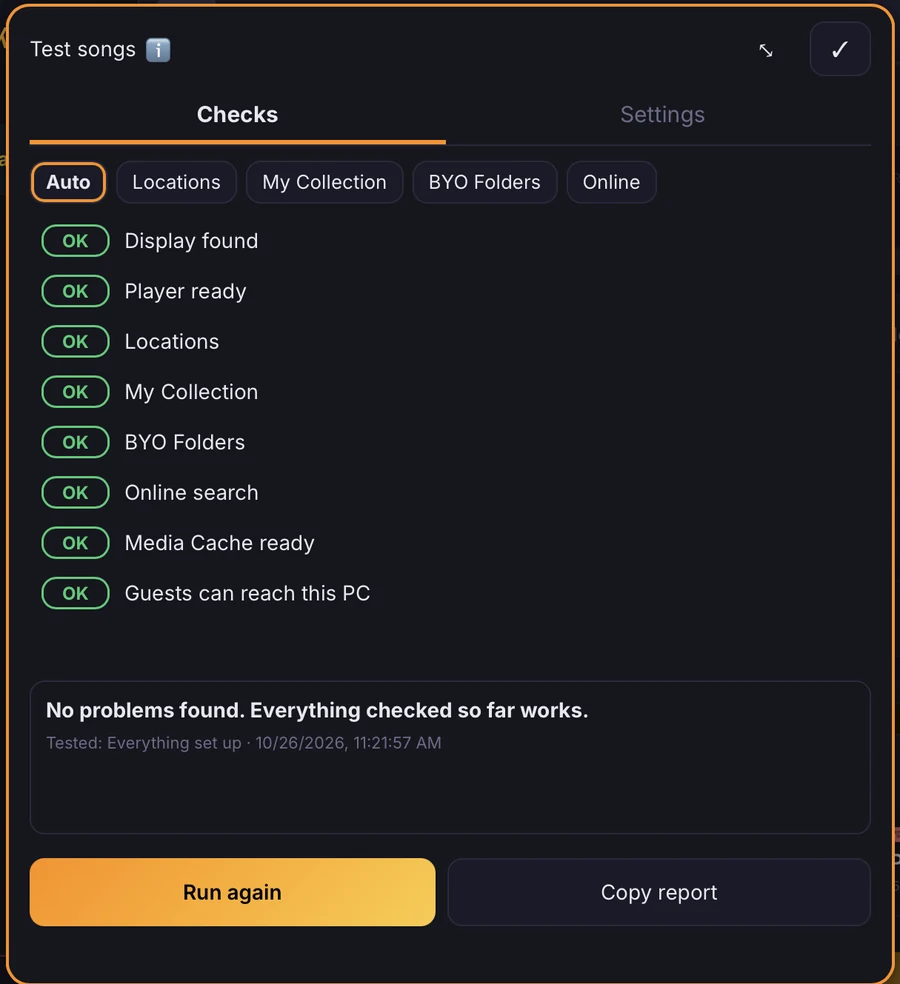
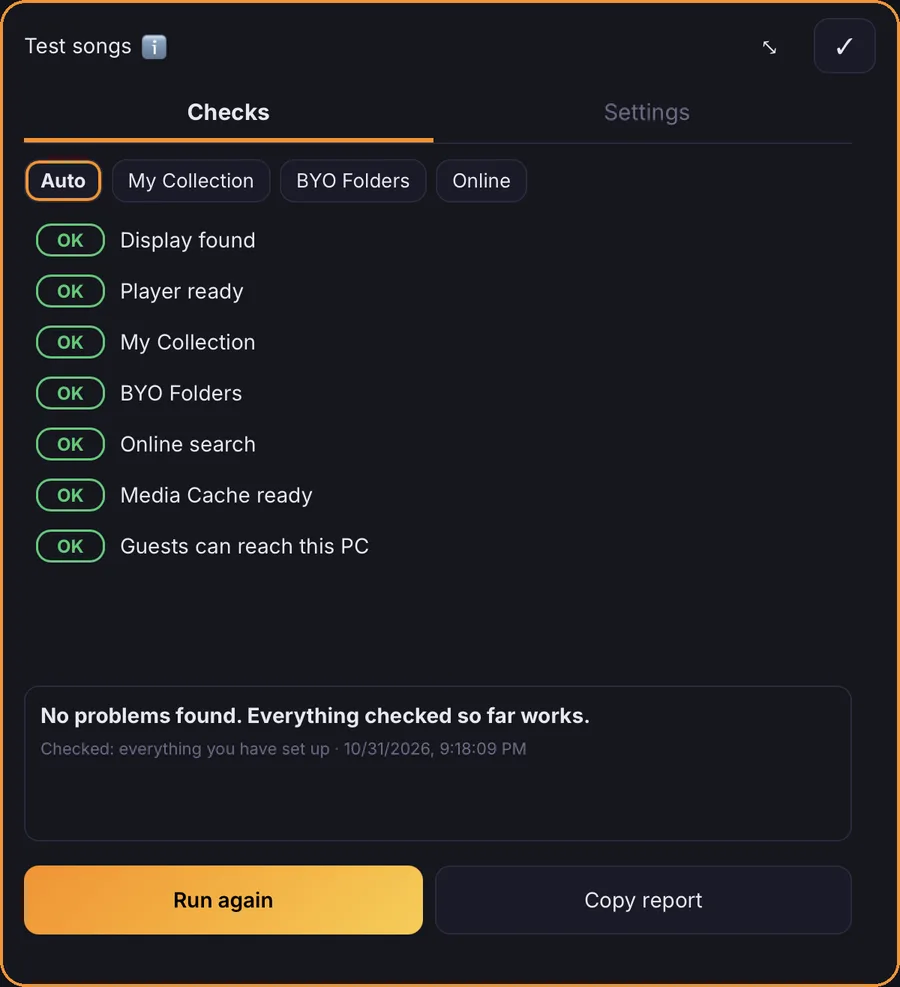
Update hero screenshots and fix stale tile names
Replace the screenshots on the home and features pages with current ones, cropped to the app without the browser bars. The new set: the host dashboard (the home-page hero), the guest “You’re singing” screen, the Get Ready checklist, and a guest’s My Songs queue with a karaoke clip playing in the preview window. Add a new Test songs results screenshot to the features page.

Update the image sizes and alt text for the new shots. The guest alt text no longer mentions a Tip button, which the new screen does not show.

In check.html, rename the Get Ready tiles to match the app: “Song folders” is now “My Collection” and “My own media” is now “BYO Folders”.

Claude-Session: https://claude.ai/code/session_01HnEckNtUaNkFFQ5UtnkAkX

diff --git a/features.html b/features.html
@@ -54,7 +54,7 @@
 <h2>From one singer to a whole venue</h2>
 <p class="lead narrow">Jukoke is one program at every size. A duet at home and a KJ with a full room use the same app; the plans simply lift the limits and add the tools a crowd needs.</p>
 <div class="cards three">
-<article class="card"><h3>Start small, for free</h3><p>Free covers you and one guest. Add Lite for practice tools and a party of friends.</p></article>
+<article class="card"><h3>Start small, for free</h3><p>Free covers you and one guest. Add Free+ for practice tools, or Lite for a party of friends.</p></article>
 <article class="card"><h3>Grow with the crowd</h3><p>Pro removes the guest cap and adds crowd control, stage tools, announcements and the full party look. Buy it by the 6-hour session when you need it &mdash; no subscription to cancel.</p></article>
 <article class="card"><h3>Prepare once, reuse everywhere</h3><p>Keep a prep for each gig, clone an old one, tag venues, and bring the whole night back in one step.</p></article>
 <article class="card"><h3>Several rooms? Several Jukokes</h3><p>Run one Jukoke in each room. Each has its own queue and guests, and the rooms can share the same song libraries over your network.</p></article>
@@ -120,19 +120,18 @@
 <figcaption class="small muted">The host&rsquo;s night, start to finish</figcaption>
 </figure>
 <div class="shots two">
-<figure class="shot"><img src="img/shots/host-get-ready.webp" width="900" height="840" alt="The Get Ready checklist on the host dashboard, with a status card, checks for songs, playback and guest Wi-Fi, and the Test songs and Screen and sound buttons" loading="lazy"><figcaption>Get Ready checks your screen, songs, Wi-Fi and server, and shows what is left.</figcaption></figure>
-<figure class="shot"><img src="img/shots/host-test-songs.webp" width="900" height="984" alt="The Test songs panel with every check showing OK: display, player, locations, collection, BYO folders, online search, media cache and guest access" loading="lazy"><figcaption>Test songs tries a sample of your songs and says which step, if any, would stop them playing.</figcaption></figure>
+<figure class="shot"><img src="img/shots/host-get-ready.webp" width="900" height="819" alt="The Get Ready checklist on the host dashboard, with green ticks for My Collection, BYO Folders, online search, media cache and the Jukoke server, and buttons for Test songs, Screen &amp; sound and Refresh status" loading="lazy"><figcaption>Get Ready checks your screen, songs and Wi-Fi, and shows what is left.</figcaption></figure>
+<figure class="shot"><img src="img/shots/host-test-songs.webp" width="900" height="987" alt="The Test songs results: OK for the display, player, My Collection, BYO Folders, online search, media cache and guest access, with Run again and Copy report buttons" loading="lazy"><figcaption>Test songs tries the whole chain for you and says what, if anything, is wrong.</figcaption></figure>
 <figure class="shot"><img src="img/shots/host-party-prep.webp" width="900" height="1016" alt="The Party Prep list with one prep, Smith Wedding, and buttons to open, clone or export it" loading="lazy"><figcaption>Prepare the night ahead of time, then bring it to life at the party.</figcaption></figure>
-<figure class="shot"><img src="img/shots/host-dashboard-singing.webp" width="900" height="1012" alt="The host dashboard while a guest sings, with pause, skip, volume and key controls, and buttons below for Add Song, Break &amp; Filler, Get Ready and QR Code" loading="lazy"><figcaption>Run the party from the dashboard while a guest sings.</figcaption></figure>
+<figure class="shot"><img src="img/shots/host-dashboard-singing.webp" width="900" height="1106" alt="The host dashboard while a guest sings, with pause, skip, volume and key controls, and buttons below for Add Song, Break &amp; Filler, Get Ready and QR Code" loading="lazy"><figcaption>Run the party from the dashboard while a guest sings.</figcaption></figure>
 <figure class="shot"><img src="img/shots/host-approve-guest.webp" width="900" height="1016" alt="The Guests screen with a pending guest and Approve, Come See Me and Reject buttons" loading="lazy"><figcaption>Step in when you need to: approve, check in with, or turn away a guest.</figcaption></figure>
-<figure class="shot"><img src="img/shots/host-eq.webp" width="900" height="894" alt="The equalizer on the host dashboard: a preset box, ten sliders from 30 Hz to 15 kHz, Revert and Save buttons, and a Manage button for songs with their own curve" loading="lazy"><figcaption>Shape the backing track with an equalizer, and give any song its own curve.</figcaption></figure>
 </div>
 <h3>For your guests</h3>
 <figure class="diagram">
 <div class="diagram-scroll">
 <svg viewBox="0 0 960 200" role="img" aria-labelledby="gd-t gd-d" xmlns="http://www.w3.org/2000/svg">
 <title id="gd-t">A guest&rsquo;s night</title>
-<desc id="gd-d">Scan, join with a stage name and PIN, add songs or ask the MC, wait for a fair turn, sing, and come back another night.</desc>
+<desc id="gd-d">Scan, join with a nickname and PIN, add songs or ask the MC, wait for a fair turn, sing, and come back another night.</desc>
 <defs><marker id="mgd" viewBox="0 0 10 10" refX="9" refY="5" markerWidth="7" markerHeight="7" orient="auto-start-reverse"><path d="M0 0L10 5L0 10z" class="dg-arrow"/></marker></defs>
 <text class="dg-label" x="14" y="26">A GUEST</text>
 <rect class="dg-box" x="14" y="48" width="136" height="110" rx="12"/>
@@ -144,7 +143,7 @@
 <path class="dg-line" d="M150 103H170" marker-end="url(#mgd)"/>
 <rect class="dg-box" x="172" y="48" width="136" height="110" rx="12"/>
 <text class="dg-name" x="240" y="76" text-anchor="middle">Join</text>
-<text class="dg-sub" x="240" y="96" text-anchor="middle">Stage name and</text>
+<text class="dg-sub" x="240" y="96" text-anchor="middle">Nickname and</text>
 <text class="dg-sub" x="240" y="113" text-anchor="middle">PIN. No app,</text>
 <text class="dg-sub" x="240" y="130" text-anchor="middle">no account</text>
 <text class="dg-sub" x="240" y="182" text-anchor="middle">2</text>
@@ -181,10 +180,10 @@
 <figcaption class="small muted">A guest&rsquo;s night</figcaption>
 </figure>
 <div class="shots two">
-<figure class="shot"><img src="img/shots/guest-joined.webp" width="900" height="1016" alt="The welcome screen a guest sees after joining, with their emoji and stage name" loading="lazy"><figcaption>Pick a stage name and PIN, and you are in.</figcaption></figure>
-<figure class="shot"><img src="img/shots/guest-search-preview.webp" width="900" height="1016" alt="A guest searching online with a short video preview playing in the corner" loading="lazy"><figcaption>Search, and preview a short clip before you add a song.</figcaption></figure>
+<figure class="shot"><img src="img/shots/guest-joined.webp" width="900" height="1016" alt="The welcome screen a guest sees after joining, with their emoji and nickname" loading="lazy"><figcaption>Pick a nickname and PIN, and you are in.</figcaption></figure>
+<figure class="shot"><img src="img/shots/guest-search-preview.webp" width="900" height="1524" alt="A guest's My Songs queue with a karaoke clip from the host's own collection playing in a small preview window" loading="lazy"><figcaption>Preview a song before you sing it, from your own collection or online.</figcaption></figure>
 <figure class="shot"><img src="img/shots/guest-your-turn.webp" width="900" height="1016" alt="The You are Up screen on a guest's device" loading="lazy"><figcaption>Nobody has to ask whose turn it is.</figcaption></figure>
-<figure class="shot"><img src="img/shots/guest-singing.webp" width="900" height="1500" alt="The singer controls on a guest's phone: pause, restart, skip, volume, seek and key, with a Tip button in the bottom bar" loading="lazy"><figcaption>Then sing, with your own controls.</figcaption></figure>
+<figure class="shot"><img src="img/shots/guest-singing.webp" width="900" height="859" alt="The singer controls on a guest's device: pause, restart, skip, volume, seek and key, with My Queue and Add Song below" loading="lazy"><figcaption>Then sing, with your own controls.</figcaption></figure>
 </div>
 </section>
 
@@ -222,7 +221,7 @@
 
 <rect class="dg-box hot" x="336" y="80" width="108" height="72" rx="12"/>
 <text class="dg-name" x="390" y="108" text-anchor="middle">NICE-Join</text>
-<text class="dg-sub" x="390" y="128" text-anchor="middle">Scan, stage name</text>
+<text class="dg-sub" x="390" y="128" text-anchor="middle">Scan, nickname</text>
 <path class="dg-line" d="M444 116H462" marker-end="url(#ar2)"/>
 <rect class="dg-box hot" x="464" y="80" width="108" height="72" rx="12"/>
 <text class="dg-name" x="518" y="108" text-anchor="middle">NICE-Add</text>
@@ -260,16 +259,16 @@
 </figure>
 
 <div class="cards three">
-<article class="card"><h3><span class="tag">NICE-Start</span> Up and running, step by step</h3><p>A guided checklist for your first time, and any time something stops working. Tell Jukoke what you have to sing with: song files, your own media, or nothing yet. It checks your screen, songs, online search and Wi-Fi as they are right now, keeps itself up to date while you work, shows what is left, and takes you straight to each fix. Skip anything you do not plan to use. It can try a sample of songs from your catalog, the Dashboard button turns green, yellow or red, and a Screen &amp; sound clip lets you check the TV and each speaker. Sound and TV setup come with plain guidance. Online search needs a separate helper program that you choose to set up; it is provided as is, without warranty or support. On every plan.</p></article>
+<article class="card"><h3><span class="tag">NICE-Start</span> Up and running, step by step</h3><p>A guided checklist for your first time, and any time something stops working. Tell Jukoke what you have to sing with: song files, your own media, or nothing yet. It checks your screen, songs, online search and Wi-Fi as they are right now, shows what is left, and takes you straight to each fix. Skip anything you do not plan to use. Sound and TV setup come with plain guidance. Online search needs a separate helper program that you choose to set up; it is provided as is, without warranty or support. On every plan.</p></article>
 <article class="card"><h3><span class="tag">NICE-Prep</span> Ready before the party</h3><p>Build a plan for the night ahead of time, with no session running: party details, the look, filler music, guest permissions, your own songs, and the guests you expect with songs picked for each. On the night it all goes into place together.</p></article>
-<article class="card"><h3><span class="tag">NICE-SIP</span> Your song catalog</h3><p>Scan your folders, or import a list exported from your old karaoke software. Review it, fix any title or artist, and approve. Guests then search the songs you actually have, by title or artist, and find something that will play. Scan and import are on every plan; editing a catalog entry later is part of Lite and Pro.</p></article>
+<article class="card"><h3><span class="tag">NICE-SIP</span> Your song catalog</h3><p>Scan your folders, or import a list exported from your old karaoke software. Review it, fix any title or artist, and approve. Guests then search the songs you actually have, by title or artist, and find something that will play. Scan and import are on every plan; editing a catalog entry later is part of Free+ and up.</p></article>
 <article class="card"><h3><span class="tag">NICE-Vibe</span> Your party&rsquo;s look</h3><p>Give the party a title and colors on guests&rsquo; phones and, on Pro, on the TV too. Pro also adds your own background pictures. Without one, the background is a wave pattern in your party colors. It feels like your party, not a generic app.</p></article>
-<article class="card"><h3><span class="tag">NICE-Join</span> Getting in, and coming back</h3><p>Guests scan a QR code, pick a stage name and a 4-digit PIN, and they&rsquo;re in. The last four digits of a phone number make an easy PIN to remember, but any four digits work, and nothing checks them. No account, no app, and no name or email asked for. With <strong>Follow-Me</strong>, a returning guest is recognized: their history, favorites and keys come back, at this party or the next.</p></article>
-<article class="card"><h3><span class="tag">NICE-Add</span> Choosing songs</h3><p>Add songs from your own song folders, from a catalog of what you have, from guests&rsquo; own files in the shared folders you open to them, from online search, or by pasting a link. Lite and Pro add saved playlists, including importing a whole YouTube playlist. Online search, Paste URL and playlist import need an online song source that you choose, set up and opt in to; Jukoke doesn&rsquo;t include one. One shared queue, however a song arrives.</p></article>
+<article class="card"><h3><span class="tag">NICE-Join</span> Getting in, and coming back</h3><p>Guests scan a QR code, pick a nickname and a 4-digit PIN, and they&rsquo;re in. The last four digits of a phone number make an easy PIN to remember, but any four digits work, and nothing checks them. No account, no app, and no name or email asked for. With <strong>Follow-Me</strong>, a returning guest is recognized: their history, favorites and keys come back, at this party or the next.</p></article>
+<article class="card"><h3><span class="tag">NICE-Add</span> Choosing songs</h3><p>Add songs from your own song folders, from a catalog of what you have, from guests&rsquo; own files in the shared folders you open to them, from online search, or by pasting a link. Free+ and up add saved playlists, including importing a whole YouTube playlist. Online search, Paste URL and playlist import need an online song source that you choose, set up and opt in to; Jukoke doesn&rsquo;t include one. One shared queue, however a song arrives.</p></article>
 <article class="card"><h3><span class="tag">NICE-Q</span> Fair turns</h3><p>A rotation that gives every singer a turn. The host can reorder and manage what&rsquo;s queued, and the player always knows who is next.</p></article>
 <article class="card"><h3><span class="tag">NICE-Play</span> On stage</h3><p>Singers control their own song from their phones, and guests can see when they are up. The host can limit which controls guests get.</p></article>
 <article class="card"><h3><span class="tag">NICE-Try</span> Practice a tricky bit</h3><p>Loop a section, slow the tempo, and try it again. Handy for the song everyone loves and nobody has quite learned.</p></article>
-<article class="card"><h3><span class="tag">NICE-GAME</span> Guest admin essentials</h3><p>Approve, restrict or block guests when a crowd needs managing, and look over a long or repeated song before it joins the queue. Rules follow the same guest identity all night. Song review, Strict Admission and the rest are Pro.</p></article>
+<article class="card"><h3><span class="tag">NICE-GAME</span> Guest admin essentials</h3><p>Approve, restrict or block guests when a crowd needs managing, and look over a long or repeated song before it joins the queue. Rules follow the same guest identity all night. Song review and Strict Admission start at Lite+; the rest is Pro.</p></article>
 </div>
 </section>
 
@@ -290,9 +289,9 @@
 <li>Session history and stats, with a session report on Pro.</li>
 <li>Venue tags, so hosts who play several places can keep them apart.</li>
 <li>Works on any phone with a browser. Guests need nothing installed.</li>
-<li>Stage Wait: pause between songs so the next singer can get to the mic (Pro).</li>
+<li>Stage Hold: pause between songs so the next singer can get to the mic (Pro).</li>
 <li>Ask the MC messages arrive with a badge on your Dashboard and Live Guests, just like join requests. Search them, sort them, and look back at what you have handled.</li>
-<li>Approve some songs first (Pro): hold a song that is shorter or longer than you like, or one a guest has already sung tonight, until you say yes. The guest is told it is waiting, other songs keep playing, and you can approve it or send back a reason. Song lengths show in your queue and in search.</li>
+<li>Approve some songs first (Lite+ and Pro): hold a song that is shorter or longer than you like, or one a guest has already sung tonight, until you say yes. The guest is told it is waiting, other songs keep playing, and you can approve it or send back a reason. Song lengths show in your queue and in search.</li>
 <li>Tip jar (Pro): show your own tip link, QR picture or text to copy, such as a Zelle email, on every guest&rsquo;s phone. Tips go straight to you; Jukoke takes no fee and handles no payment.</li>
 <li>Announce (Pro): send one short message to every guest&rsquo;s phone, and optionally to the TV as a banner across the top that never covers the lyrics. Mark it Info, Good news or Urgent, and choose whether guests must tap OK.</li>
 </ul>
@@ -304,39 +303,37 @@
 <p class="lead narrow">Jukoke is free to run on its own. When you want a bigger party, start a <strong>session</strong> &mdash; a 6-hour block of a paid plan &mdash; using <strong>Play Tokens</strong> from your Wallet. Buy tokens in packs; larger packs cost less per token. See <a href="pricing.html">Pricing</a> for pack prices and session costs.</p>
 <div class="table-wrap">
 <table>
-<thead><tr><th scope="col"></th><th scope="col">Free</th><th scope="col">Lite</th><th scope="col">Pro</th></tr></thead>
+<thead><tr><th scope="col"></th><th scope="col">Free</th><th scope="col">Free+</th><th scope="col">Lite</th><th scope="col">Pro</th></tr></thead>
 <tbody>
-<tr><th scope="row">Guests at once</th><td>1</td><td>8</td><td>Unlimited</td></tr>
-<tr><th scope="row">Songs waiting in the queue</th><td>1</td><td>Unlimited</td><td>Unlimited</td></tr>
-<tr><th scope="row">Guided setup (NICE-Start)</th><td>&#10003;</td><td>&#10003;</td><td>&#10003;</td></tr>
-<tr><th scope="row">Prepare a party (NICE-Prep)</th><td>&#10003;</td><td>&#10003;</td><td>&#10003;</td></tr>
-<tr><th scope="row">Apply a prep to a live party</th><td>&ndash;</td><td>&ndash;</td><td>&#10003;</td></tr>
-<tr><th scope="row">Audio channel, audio track and gain</th><td>&#10003;</td><td>&#10003;</td><td>&#10003;</td></tr>
-<tr><th scope="row">Loop, tempo, vocal removal, playlists, catalog editing</th><td>&ndash;</td><td>&#10003;</td><td>&#10003;</td></tr>
-<tr><th scope="row">Equalizer (presets, sliders, a curve for each song)</th><td>&ndash;</td><td>&#10003;</td><td>&#10003;</td></tr>
-<tr><th scope="row">Your own saved EQ presets</th><td>&ndash;</td><td>&ndash;</td><td>Up to 5</td></tr>
-<tr><th scope="row">Catalog scan and import (NICE-SIP)</th><td>&#10003;</td><td>&#10003;</td><td>&#10003;</td></tr>
-<tr><th scope="row">Online search and Paste URL (you set up the source and opt in)</th><td>&#10003;</td><td>&#10003;</td><td>&#10003;</td></tr>
-<tr><th scope="row">Guests browse your shared folders</th><td>&#10003;</td><td>&#10003;</td><td>&#10003;</td></tr>
-<tr><th scope="row">Guest video uploads</th><td>1 per guest, per party</td><td>Unlimited</td><td>Unlimited</td></tr>
-<tr><th scope="row">Song library folders</th><td>1</td><td>3</td><td>Unlimited</td></tr>
-<tr><th scope="row">Break &amp; filler music</th><td>&ndash;</td><td>&#10003;</td><td>&#10003; plus rotating playlists</td></tr>
-<tr><th scope="row">Party look (title, colors)</th><td>&ndash;</td><td>Phones</td><td>Phones and TV</td></tr>
-<tr><th scope="row">Your own background pictures</th><td>&ndash;</td><td>&ndash;</td><td>&#10003;</td></tr>
-<tr><th scope="row">Stats</th><td>&ndash;</td><td>&#10003;</td><td>&#10003; plus session report</td></tr>
-<tr><th scope="row">Join by Wi-Fi + Jukoke QR codes</th><td>&#10003;</td><td>&#10003;</td><td>&#10003;</td></tr>
-<tr><th scope="row">Ask the MC (guest messages)</th><td>&ndash;</td><td>&#10003;</td><td>&#10003;</td></tr>
-<tr><th scope="row">Announce to every guest</th><td>&ndash;</td><td>&ndash;</td><td>&#10003;</td></tr>
-<tr><th scope="row">Turn heads-up (Next Up, You are Up) on phones and the TV</th><td>&#10003;</td><td>&#10003;</td><td>&#10003; plus your own timing</td></tr>
-<tr><th scope="row">Stage Wait</th><td>&ndash;</td><td>&ndash;</td><td>&#10003;</td></tr>
-<tr><th scope="row">Approve some songs first (long, short, repeats)</th><td>&ndash;</td><td>&ndash;</td><td>&#10003;</td></tr>
-<tr><th scope="row">Strict Admission (approve each guest)</th><td>&ndash;</td><td>&ndash;</td><td>&#10003;</td></tr>
-<tr><th scope="row">Tip jar on guests&rsquo; phones</th><td>&ndash;</td><td>&ndash;</td><td>&#10003;</td></tr>
-<tr><th scope="row">Crowd control (NICE-GAME)</th><td>&ndash;</td><td>&ndash;</td><td>&#10003;</td></tr>
+<tr><th scope="row">Guests at once</th><td>1</td><td>1</td><td>8, or 16 with Lite+</td><td>Unlimited</td></tr>
+<tr><th scope="row">Songs waiting in the queue</th><td>1</td><td>1</td><td>Unlimited</td><td>Unlimited</td></tr>
+<tr><th scope="row">Guided setup (NICE-Start)</th><td>&#10003;</td><td>&#10003;</td><td>&#10003;</td><td>&#10003;</td></tr>
+<tr><th scope="row">Prepare a party (NICE-Prep)</th><td>&#10003;</td><td>&#10003;</td><td>&#10003;</td><td>&#10003;</td></tr>
+<tr><th scope="row">Apply a prep to a live party</th><td>&ndash;</td><td>&ndash;</td><td>&ndash;</td><td>&#10003;</td></tr>
+<tr><th scope="row">Audio channel, audio track and gain</th><td>&#10003;</td><td>&#10003;</td><td>&#10003;</td><td>&#10003;</td></tr>
+<tr><th scope="row">Loop, tempo, vocal removal, playlists, catalog editing</th><td>&ndash;</td><td>&#10003;</td><td>&#10003;</td><td>&#10003;</td></tr>
+<tr><th scope="row">Catalog scan and import (NICE-SIP)</th><td>&#10003;</td><td>&#10003;</td><td>&#10003;</td><td>&#10003;</td></tr>
+<tr><th scope="row">Online search and Paste URL (you set up the source and opt in)</th><td>&#10003;</td><td>&#10003;</td><td>&#10003;</td><td>&#10003;</td></tr>
+<tr><th scope="row">Guests browse your shared folders</th><td>&#10003;</td><td>&#10003;</td><td>&#10003;</td><td>&#10003;</td></tr>
+<tr><th scope="row">Guest video uploads</th><td>1 per guest, per party</td><td>Unlimited</td><td>Unlimited</td><td>Unlimited</td></tr>
+<tr><th scope="row">Song library folders</th><td>1</td><td>1</td><td>3</td><td>Unlimited</td></tr>
+<tr><th scope="row">Break &amp; filler music</th><td>&ndash;</td><td>&ndash;</td><td>&#10003;</td><td>&#10003; plus rotating playlists</td></tr>
+<tr><th scope="row">Party look (title, colors)</th><td>&ndash;</td><td>&ndash;</td><td>Phones</td><td>Phones and TV</td></tr>
+<tr><th scope="row">Your own background pictures</th><td>&ndash;</td><td>&ndash;</td><td>&ndash;</td><td>&#10003;</td></tr>
+<tr><th scope="row">Stats</th><td>&ndash;</td><td>&#10003;</td><td>&#10003;</td><td>&#10003; plus session report</td></tr>
+<tr><th scope="row">Join by Wi-Fi + Jukoke QR codes</th><td>&#10003;</td><td>&#10003;</td><td>&#10003;</td><td>&#10003;</td></tr>
+<tr><th scope="row">Ask the MC (guest messages)</th><td>&ndash;</td><td>&ndash;</td><td>&#10003;</td><td>&#10003;</td></tr>
+<tr><th scope="row">Announce to every guest</th><td>&ndash;</td><td>&ndash;</td><td>&ndash;</td><td>&#10003;</td></tr>
+<tr><th scope="row">Turn heads-up (Next Up, You are Up) on phones and the TV</th><td>&#10003;</td><td>&#10003;</td><td>&#10003;</td><td>&#10003; plus your own timing</td></tr>
+<tr><th scope="row">Stage Hold</th><td>&ndash;</td><td>&ndash;</td><td>&ndash;</td><td>&#10003;</td></tr>
+<tr><th scope="row">Approve some songs first (long, short, repeats)</th><td>&ndash;</td><td>&ndash;</td><td>With Lite+</td><td>&#10003;</td></tr>
+<tr><th scope="row">Strict Admission (approve each guest)</th><td>&ndash;</td><td>&ndash;</td><td>With Lite+</td><td>&#10003;</td></tr>
+<tr><th scope="row">Tip jar on guests&rsquo; phones</th><td>&ndash;</td><td>&ndash;</td><td>&ndash;</td><td>&#10003;</td></tr>
+<tr><th scope="row">Crowd control (NICE-GAME)</th><td>&ndash;</td><td>&ndash;</td><td>&ndash;</td><td>&#10003;</td></tr>
 </tbody>
 </table>
 </div>
-<p class="small muted">Free needs no session. Lite and Pro each last 6 hours, and you can upgrade a running Lite session to Pro for the difference. Settings you make on a higher plan are kept when you step down and come back when you return. Every installation includes a 30-day free trial of the paid plans, and a 30-Day Pro Pass gives unlimited Pro sessions for 30 days. See <a href="pricing.html">Pricing</a>.</p>
+<p class="small muted">Free needs no session. Free+, Lite and Pro each last 6 hours, and you can extend or upgrade a running session. Lite+ is Lite with 16 guests, Song Review and Strict Admission. Settings you make on a higher plan are kept when you step down and come back when you return. Every installation includes a free trial window to try the paid plans.</p>
 <p class="cta"><a class="btn" href="download.html">Download Jukoke</a></p>
 </section>
 

diff --git a/index.html b/index.html
@@ -41,13 +41,13 @@
 <p class="free"><span class="badge">FREE</span> to download and run for yourself. Start a paid session only when you want a bigger party. For Windows 11 and Ubuntu 24.04.</p>
 <ul class="pills"><li>Free to try</li><li>No app for guests</li><li>Prep to final stats</li><li>Solo to full room</li></ul>
 </div>
-<figure class="shot hero-shot" style="max-width:340px;margin:0 auto"><img src="img/shots/host-dashboard-singing.webp" width="900" height="1012" alt="The Jukoke host dashboard while a guest sings: pause, skip, volume, key and the queue, all from a phone or tablet"><figcaption>The host runs the whole night from a phone or tablet.</figcaption></figure>
+<figure class="shot hero-shot" style="max-width:340px;margin:0 auto"><img src="img/shots/host-dashboard-singing.webp" width="900" height="1106" alt="The Jukoke host dashboard while a guest sings: pause, skip, volume, key and the queue, all from a phone or tablet"><figcaption>The host runs the whole night from a phone or tablet.</figcaption></figure>
 </div>
 </section>
 
 <section class="wrap block" id="highlights">
 <div class="cards three">
-<article class="card"><h3>Zero-install guest join</h3><p>Guests scan a code, pick a stage name and a PIN, and they&rsquo;re in. No app, no account.</p><p class="small"><a href="#zero-install">How joining works &rarr;</a></p></article>
+<article class="card"><h3>Zero-install guest join</h3><p>Guests scan a code, pick a nickname and a PIN, and they&rsquo;re in. No app, no account.</p><p class="small"><a href="#zero-install">How joining works &rarr;</a></p></article>
 <article class="card"><h3>A control panel for the KJ</h3><p>Run the queue, step in, approve guests and watch the room from a phone or tablet.</p><p class="small"><a href="features.html#flows">See the host side &rarr;</a></p></article>
 <article class="card"><h3>Fair queue + Ask the MC</h3><p>Everyone gets a turn, and shy guests can message the host privately to get a song queued.</p><p class="small"><a href="#ask-the-mc">How Ask the MC works &rarr;</a></p></article>
 </div>
@@ -58,7 +58,7 @@
 <h2>How a party works</h2>
 <ol class="steps">
 <li><h3>Start Jukoke</h3><p>Open it on the computer plugged into your TV and sound system. The join codes appear on the screen, and on your first time a guided checklist helps you get set up. Want the night perfect? Prepare it the day before.</p></li>
-<li><h3>Guests scan and add songs</h3><p>Everyone joins on their own phone: scan the Wi-Fi code, scan the Jukoke code, pick a stage name and PIN, and search for songs. Nothing to install, no account to make.</p></li>
+<li><h3>Guests scan and add songs</h3><p>Everyone joins on their own phone: scan the Wi-Fi code, scan the Jukoke code, pick a nickname and PIN, and search for songs. Nothing to install, no account to make.</p></li>
 <li><h3>Everyone gets a turn</h3><p>The queue rotates fairly, so one enthusiastic singer can&rsquo;t hog the night. You can reorder, skip or step in whenever you need to.</p></li>
 </ol>
 </div>
@@ -114,7 +114,7 @@
 <path class="dg-line" d="M188 319H212" marker-end="url(#mov)"/>
 <rect class="dg-box" x="214" y="276" width="160" height="86" rx="12"/>
 <text class="dg-name" x="294" y="301" text-anchor="middle">Join</text>
-<text class="dg-sub" x="294" y="321" text-anchor="middle">Stage name and PIN.</text>
+<text class="dg-sub" x="294" y="321" text-anchor="middle">Nickname and PIN.</text>
 <text class="dg-sub" x="294" y="338" text-anchor="middle">No account</text>
 <path class="dg-line" d="M374 319H398" marker-end="url(#mov)"/>
 <rect class="dg-box hot" x="400" y="276" width="160" height="86" rx="12"/>
@@ -136,8 +136,8 @@
 <figcaption class="small muted">One workflow for the host and the guests</figcaption>
 </figure>
 <div class="shots two">
-<figure class="shot"><img src="img/shots/host-dashboard-singing.webp" width="900" height="1012" alt="The host dashboard on a tablet while a guest sings, with Add Song, Break &amp; Filler, Get Ready and QR Code buttons below" loading="lazy"><figcaption>Run the night from your phone or tablet.</figcaption></figure>
-<figure class="shot"><img src="img/shots/guest-singing.webp" width="900" height="1500" alt="The singer controls on a guest's phone, with a Tip button in the bottom bar" loading="lazy"><figcaption>Guests sing with their own controls.</figcaption></figure>
+<figure class="shot"><img src="img/shots/host-dashboard-singing.webp" width="900" height="1106" alt="The host dashboard on a tablet while a guest sings, with Add Song, Break &amp; Filler, Get Ready and QR Code buttons below" loading="lazy"><figcaption>Run the night from your phone or tablet.</figcaption></figure>
+<figure class="shot"><img src="img/shots/guest-singing.webp" width="900" height="859" alt="The singer controls on a guest's device, with My Queue and Add Song below" loading="lazy"><figcaption>Guests sing with their own controls.</figcaption></figure>
 </div>
 <p class="small"><a href="features.html#flows">See each side step by step &rarr;</a></p>
 </section>
@@ -148,8 +148,9 @@
 <p class="lead narrow">You don&rsquo;t need one tool for the living room and another for the venue. The same app and the same guest experience scale up through Jukoke&rsquo;s plans &mdash; you pay for more room only on the nights you need it.</p>
 <ol class="ladder">
 <li><span class="size">Free</span><h3>A duet</h3><p>You as host plus one guest. Everything you need to try Jukoke at no cost, with no session to start.</p></li>
-<li><span class="size">Lite</span><h3>Home parties</h3><p>Up to 8 guests at once, plus loop, tempo and playlists. Guests add their own songs, and Ask the MC helps the shy ones.</p></li>
-<li><span class="size">Pro</span><h3>Events and venues</h3><p>Unlimited guests, crowd control, Stage Wait, a tip jar on guests&rsquo; phones and the full party look on the TV. Built for a KJ running a full room.</p></li>
+<li><span class="size">Free+</span><h3>Practice mode</h3><p>The same two-person setup, plus loop, tempo, playlists and stats to work on the tricky bits.</p></li>
+<li><span class="size">Lite</span><h3>Home parties</h3><p>Up to 8 guests at once, or 16 with Lite+. Guests add their own songs, and Ask the MC helps the shy ones.</p></li>
+<li><span class="size">Pro</span><h3>Events and venues</h3><p>Unlimited guests, crowd control, Stage Hold, a tip jar on guests&rsquo; phones and the full party look on the TV. Built for a KJ running a full room.</p></li>
 </ol>
 <div class="card" style="margin-top:20px"><h3>Venue with several rooms?</h3><p>Simply run one Jukoke in each room. Each room has its own queue and guests, and your rooms can share the same song libraries over your network.</p></div>
 <p class="small muted">Plenty of hosts run Jukoke on an everyday laptop plugged into a TV. Paid plans are bought by the 6-hour session, so a big night doesn&rsquo;t mean a subscription. <a href="features.html#plans">Compare plans</a></p>
@@ -158,12 +159,12 @@
 
 <section class="wrap block" id="zero-install">
 <h2>Zero install. Low friction.</h2>
-<p class="lead narrow">Every extra step costs you a guest. Most karaoke apps ask everyone to download something and sign up before they can sing a note. Jukoke asks for a camera, a stage name and a four-digit PIN.</p>
+<p class="lead narrow">Every extra step costs you a guest. Most karaoke apps ask everyone to download something and sign up before they can sing a note. Jukoke asks for a camera, a nickname and a four-digit PIN.</p>
 <div class="compare">
 <article class="card old"><h3>The usual way</h3>
 <ul class="ticks x"><li>Find the app and download it</li><li>Make an account, confirm an email</li><li>Type the Wi-Fi password, then work out the party code</li><li>The host reads out requests, or guests crowd the laptop</li></ul></article>
 <article class="card"><h3>The Jukoke way</h3>
-<ul class="ticks"><li><strong>Scan the Wi-Fi code</strong> to get on the network (optional)</li><li><strong>Scan the Jukoke code</strong> to open the party in the phone&rsquo;s browser</li><li><strong>Pick a stage name and a 4-digit PIN</strong> and you&rsquo;re in. No account, name or email. The last four digits of a phone number make an easy PIN, but any four digits work</li><li>Come back next time and Jukoke remembers you</li></ul></article>
+<ul class="ticks"><li><strong>Scan the Wi-Fi code</strong> to get on the network (optional)</li><li><strong>Scan the Jukoke code</strong> to open the party in the phone&rsquo;s browser</li><li><strong>Pick a nickname and a 4-digit PIN</strong> and you&rsquo;re in. No account, name or email. The last four digits of a phone number make an easy PIN, but any four digits work</li><li>Come back next time and Jukoke remembers you</li></ul></article>
 </div>
 <p class="quote">Works with the browser every phone already has &mdash; iPhone, Android, an old tablet someone found in a drawer.</p>
 </section>
@@ -234,7 +235,7 @@
 
 <rect class="dg-box hot" x="336" y="80" width="108" height="72" rx="12"/>
 <text class="dg-name" x="390" y="108" text-anchor="middle">NICE-Join</text>
-<text class="dg-sub" x="390" y="128" text-anchor="middle">Scan, stage name</text>
+<text class="dg-sub" x="390" y="128" text-anchor="middle">Scan, nickname</text>
 <path class="dg-line" d="M444 116H462" marker-end="url(#ar)"/>
 <rect class="dg-box hot" x="464" y="80" width="108" height="72" rx="12"/>
 <text class="dg-name" x="518" y="108" text-anchor="middle">NICE-Add</text>
@@ -275,7 +276,7 @@
 
 <section class="wrap block center">
 <h2>Try it tonight</h2>
-<p class="lead narrow">Download it, plug in your TV, and scan the QR code with your phone. Every installation includes a 30-day free trial of the paid plans.</p>
+<p class="lead narrow">Download it, plug in your TV, and scan the QR code with your phone. Every installation includes a free trial window for the paid plans.</p>
 <p class="cta"><a class="btn" href="download.html">Get the download</a></p>
 </section>
 

diff --git a/check.html b/check.html
@@ -72,7 +72,7 @@
 <figcaption class="small muted">Check songs on your drives at a glance. The numbered steps below match.</figcaption>
 </figure>
 <ol class="steps">
-<li><h3>Open Library Folders.</h3><p>Tap <strong>🚀 Get Ready</strong> on the Dashboard, tap the <strong>Song folders</strong> tile, then the button that opens the folder list. Or open <strong>Setup</strong>, then <strong>Song Source</strong>, then <strong>Library Folders</strong>.</p></li>
+<li><h3>Open Library Folders.</h3><p>Tap <strong>🚀 Get Ready</strong> on the Dashboard, tap the <strong>My Collection</strong> tile, then the button that opens the folder list. Or open <strong>Setup</strong>, then <strong>Song Source</strong>, then <strong>Library Folders</strong>.</p></li>
 <li><h3>Add your folder.</h3><p>Tap <strong>+ Add Existing</strong> and pick the folder that holds your songs. It appears in the list marked <strong>● in use</strong>. The counter at the top, for example <strong>In use 1 / 1</strong>, shows how many folders your plan allows at once. If the folder is not marked in use, tap it, then tap <strong>● Use for Search</strong>. Tap <strong>✓</strong> when done.</p></li>
 <li><h3>Open Add Song.</h3><p>Go to the Dashboard, open <strong>Pending</strong>, then tap the <strong>+</strong> button at the top.</p></li>
 <li><h3>Pick a song under Direct Files.</h3><p>Tap <strong>📁 Direct Files</strong>. You see a list that starts at <strong>Song Library</strong>. Open your folder, then tap a song.</p></li>
@@ -86,7 +86,7 @@
 <h2>Check guests' own files (BYO)</h2>
 <p class="narrow">BYO means Bring Your Own. A guest can browse a folder you share, such as a USB stick they hand you, and add songs from it. They can also upload one video from their phone.</p>
 <p class="narrow">You need a second phone to act as the guest, a folder with a few song files, and Jukoke running with you joined as the MC.</p>
-<p class="narrow">It works on every plan. On Free, each guest can upload one video per party (Lite and Pro have no limit), and the queue holds one song at a time.</p>
+<p class="narrow">It works on every plan. On Free, each guest can upload one video per party (Free+ and up have no limit), and the queue holds one song at a time.</p>
 <figure class="diagram">
 <div class="diagram-scroll">
 <svg viewBox="0 0 960 130" role="img" aria-labelledby="ce-t ce-d" xmlns="http://www.w3.org/2000/svg"><title id="ce-t">Check guests&#x27; own files (BYO) at a glance</title><desc id="ce-d">Share a folder as BYO, join as a guest on a second phone, open BYO under More, tick a song and add it, and it plays.</desc><defs><marker id="ce-m" viewBox="0 0 10 10" refX="9" refY="5" markerWidth="7" markerHeight="7" orient="auto-start-reverse"><path d="M0 0L10 5L0 10z" class="dg-arrow"/></marker></defs><rect class="dg-box hot" x="0" y="14" width="168" height="100" rx="12"/><text class="dg-label" x="16" y="36">1</text><text class="dg-name" x="84.0" y="70" text-anchor="middle">Share a folder</text><text class="dg-sub" x="84.0" y="92" text-anchor="middle">BYO Folders</text><path class="dg-line" d="M168 64H196" marker-end="url(#ce-m)"/><rect class="dg-box hot" x="198" y="14" width="168" height="100" rx="12"/><text class="dg-label" x="214" y="36">2</text><text class="dg-name" x="282.0" y="70" text-anchor="middle">Join as a guest</text><text class="dg-sub" x="282.0" y="92" text-anchor="middle">second phone</text><path class="dg-line" d="M366 64H394" marker-end="url(#ce-m)"/><rect class="dg-box hot" x="396" y="14" width="168" height="100" rx="12"/><text class="dg-label" x="412" y="36">3</text><text class="dg-name" x="480.0" y="70" text-anchor="middle">Open BYO</text><text class="dg-sub" x="480.0" y="92" text-anchor="middle">Add Song, More</text><path class="dg-line" d="M564 64H592" marker-end="url(#ce-m)"/><rect class="dg-box hot" x="594" y="14" width="168" height="100" rx="12"/><text class="dg-label" x="610" y="36">4</text><text class="dg-name" x="678.0" y="70" text-anchor="middle">Browse, add</text><text class="dg-sub" x="678.0" y="92" text-anchor="middle">tick a song</text><path class="dg-line" d="M762 64H790" marker-end="url(#ce-m)"/><rect class="dg-box game" x="792" y="14" width="168" height="100" rx="12"/><text class="dg-label" x="808" y="36">5</text><text class="dg-name" x="876.0" y="70" text-anchor="middle">It plays</text><text class="dg-sub" x="876.0" y="92" text-anchor="middle">on the party screen</text></svg>
@@ -94,7 +94,7 @@
 <figcaption class="small muted">Check guests' own files (BYO) at a glance. The numbered steps below match.</figcaption>
 </figure>
 <ol class="steps">
-<li><h3>Share a folder.</h3><p>On the MC phone, open <strong>Setup</strong>, then <strong>Song Source</strong>, then <strong>BYO Folders</strong>. You can also tap the <strong>My own media</strong> tile in <strong>Get Ready</strong>. Tap <strong>+ Add Existing</strong> and pick the folder. This list is separate from Library Folders. Tap <strong>✓</strong> when done.</p></li>
+<li><h3>Share a folder.</h3><p>On the MC phone, open <strong>Setup</strong>, then <strong>Song Source</strong>, then <strong>BYO Folders</strong>. You can also tap the <strong>BYO Folders</strong> tile in <strong>Get Ready</strong>. Tap <strong>+ Add Existing</strong> and pick the folder. This list is separate from Library Folders. Tap <strong>✓</strong> when done.</p></li>
 <li><h3>Join as a guest.</h3><p>On the second phone, scan the guest QR code shown on the party screen. Follow the prompts to join. If the MC phone shows a guest waiting for approval, approve them under <strong>Live Guests</strong>, then <strong>Pending Review</strong>.</p></li>
 <li><h3>Check the permission.</h3><p><strong>Allow BYO Access</strong> is ticked for new guests, so there is normally nothing to do. If this guest cannot see BYO in step 4, open them in the <strong>Guest</strong> tab on the MC phone, tap <strong>Permission</strong>, and tick <strong>Allow BYO Access</strong>.</p></li>
 <li><h3>Open BYO on the guest phone.</h3><p>Tap <strong>🔍 Add Song</strong>, then <strong>⋯ More</strong>, then <strong>🎒 BYO</strong>. Under <strong>📚 Browse</strong> you see the folder you shared. Open it and tick a song.</p></li>
